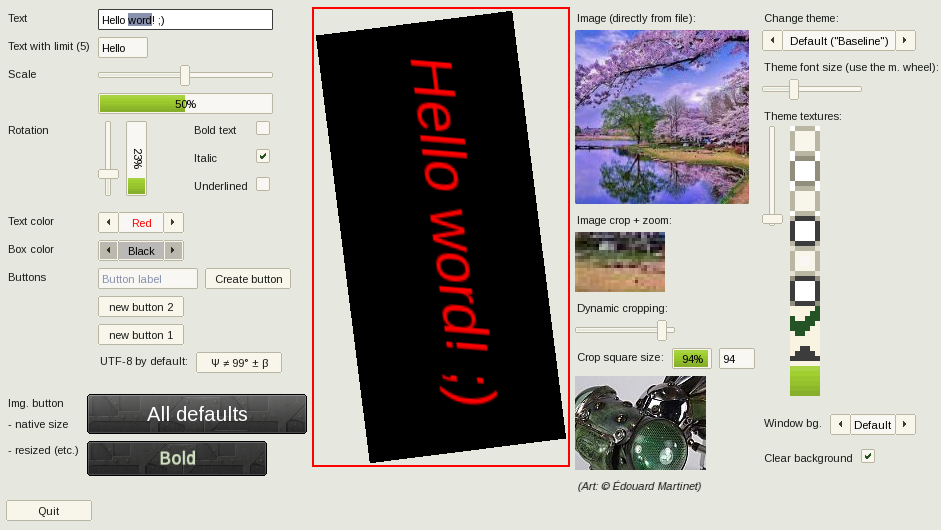
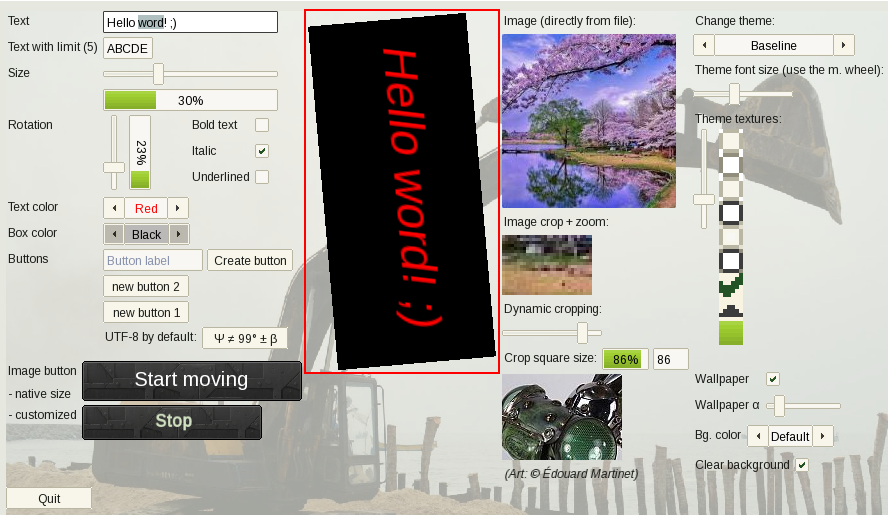
New screenshot (w. wallpaper) + minor demo changes

diff --git a/src/examples/demo.cpp b/src/examples/demo.cpp
@@ -414,8 +414,8 @@ cerr << "font size: "<< themecfg.textSize << endl; //!!#196
 	           )->enable(demo.hasWallpaper()); // Only enable if there actually is a wallpaper!
 
 	// Wallpaper transparency slider
-	bgform->add("Wallpaper α", sfw::Slider({}, 75))
-		->set(10)
+	bgform->add("Wallpaper α", sfw::Slider({.range={0, 255}}, 75))
+		->set(25)
 		->setCallback([&](auto* w) {
 			assert(w->getWidget("theme-selector"));
 			auto& themecfg = ((OBTheme*)(w->getWidget("theme-selector")))->currentRef();
@@ -450,7 +450,7 @@ cerr << "font size: "<< themecfg.textSize << endl; //!!#196
 	// (after setup, as these may trigger callbacks etc.)
 	//
 
-	// Change the font size (to "prime" SFML) to avoid #196! :-o
+	// Change the font size (to bigger?) to "prime" SFML to avoid #196! :-o
 	if (auto w = (sfw::Slider*)demo.getWidget("font size slider"); w)
 		w->update(14);
 

diff --git a/src/test/main.cpp b/src/test/main.cpp
@@ -452,8 +452,8 @@ cerr << "font size: "<< themecfg.textSize << endl; //!!#196
 	bgform->add("Wallpaper", sfw::CheckBox([&](auto* w) { w->checked() ? demo.setWallpaper() : demo.disableWallpaper(); },
 	                                       demo.hasWallpaper()));
 	// Wallpaper transparency slider
-	bgform->add("Wallpaper α", Slider({}, 75))
-		->set(10)
+	bgform->add("Wallpaper α", Slider({.range={0, 255}}, 75))
+		->set(25)
 		->setCallback([&](auto* w) {
 			assert(w->getWidget("theme-selector"));
 			auto& themecfg = ((OBTheme*)(w->getWidget("theme-selector")))->currentRef();
